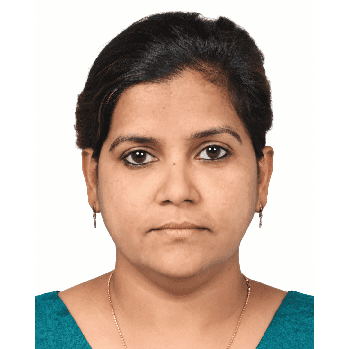
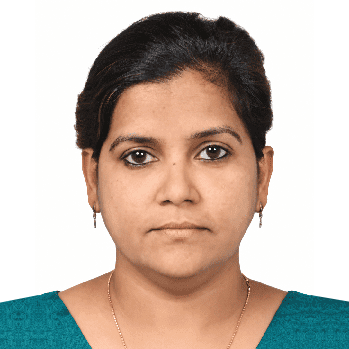
Update present Executive Council portraits: Dr. B. Sarath Babu (President), Dr. Jagadeeshwar (Vice-President), Dr. Celia Chalam (Vice-President), and Dr. M. Srinivas Prasad (Vice-President)

Changed region(s): [[0.8883, 0.8309, 1.0, 1.0], [0.0, 0.8309, 0.1146, 1.0]]

diff --git a/pages/management/commands/seed_ppai.py b/pages/management/commands/seed_ppai.py
@@ -78,7 +78,7 @@ EXECUTIVE_MEMBERS_FULL_DATA = [   {   'achievements': '• PGR & Quarantine Poli
         'designation': 'Vice-President',
         'email': None,
         'gender': 'male',
-        'image': 'council/dr_m_srinivas_prasad.jpg',
+        'image': 'council/dr_m_srinivas_prasad.png',
         'name': 'Dr. M Srinivas Prasad',
         'official_address': None,
         'order': 4,

diff --git a/seed_all_data.py b/seed_all_data.py
@@ -82,7 +82,7 @@ EXECUTIVE_MEMBERS_FULL_DATA = [   {   'achievements': '• PGR & Quarantine Poli
         'designation': 'Vice-President',
         'email': None,
         'gender': 'male',
-        'image': 'council/dr_m_srinivas_prasad.jpg',
+        'image': 'council/dr_m_srinivas_prasad.png',
         'name': 'Dr. M Srinivas Prasad',
         'official_address': None,
         'order': 4,
